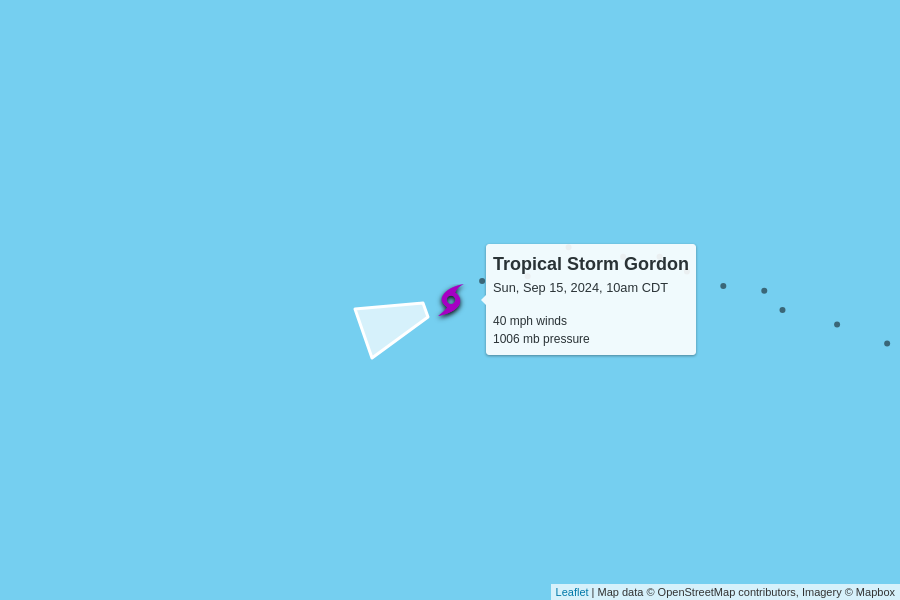
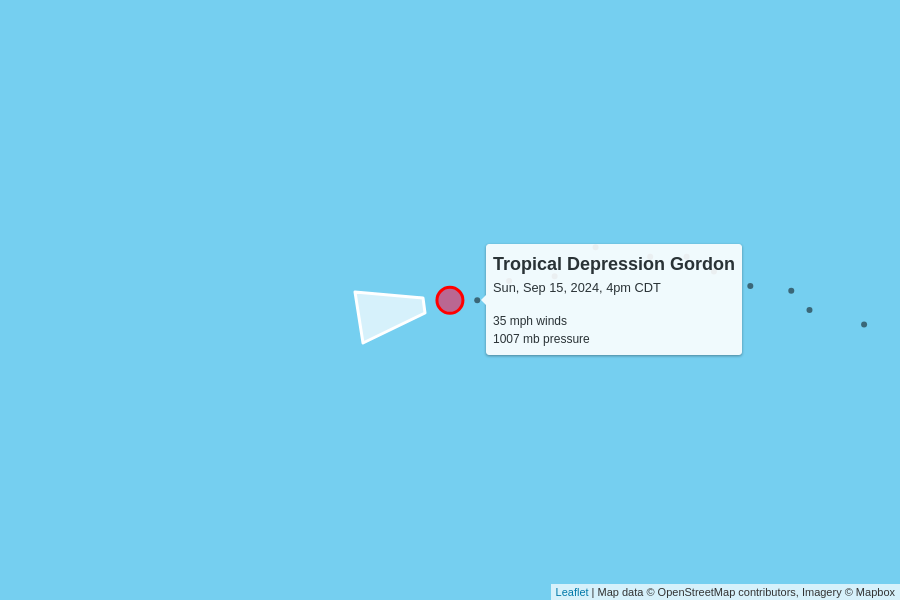
automatic update

Changed region(s): [[0.6222, 0.39, 0.84, 0.6], [0.3733, 0.48, 0.56, 0.6]]

diff --git a/docs/index.html b/docs/index.html
@@ -96,13 +96,15 @@
     </p>
 
     
+    <h2>2 active storms</h2>
+    <img src="active.png">
 
     <table>
       <tr>
         <td colspan="6" class="storm category-0" >
           <h2>
-            Tropical Storm Gordon
-            <p class="updated">last updated <span data-time>2024-09-15T15:00:00.000Z</span></p>
+            Tropical Depression Gordon
+            <p class="updated">last updated <span data-time>2024-09-15T21:00:00.000Z</span></p>
           </h2>
         </td>
       </tr>
@@ -117,12 +119,12 @@
       </tr>
       <tr>
         <td class="spacer"></td>
-        <td>40 mph<br>0 mph since last update</td>
-        <td>1006 mb<br>0 mb since last update</td>
+        <td>35 mph<br>-5 mph since last update</td>
+        <td>1007 mb<br>+1 mb since last update</td>
         <td>
-          9 mph to the west-southwest
+          8 mph to the west
           <br/>
-          <span style="display: inline-block; font-size: 1.5em; transform: rotate(250deg);">↑</span>
+          <span style="display: inline-block; font-size: 1.5em; transform: rotate(260deg);">↑</span>
         </td>
         <td><a href="https://raw.githubusercontent.com/mgwalker/atlantic-hurricanes/main/data/csv/AL072024.csv">AL072024.csv</a></td>
         <td><a href="https://www.nhc.noaa.gov/archive/2024/GORDON.shtml?">NHC advisories</a></td>
@@ -132,6 +134,50 @@
         <td colspan="5">
           <figure>
             <img src="AL072024.png">
+            <figcaption>
+              Map data &copy; <a href="https://www.openstreetmap.org/copyright">OpenStreetMap</a> contributors,
+              Imagery &copy; <a href="https://www.mapbox.com/">Mapbox</a> |
+              <a href="https://www.mapbox.com/map-feedback/" target="_blank">Improve this map</a>
+            </figcaption>
+          </figure>
+        </td>
+      </tr>
+      
+
+      <tr>
+        <td colspan="6" class="storm category-0" >
+          <h2>
+            Potential Tropical Cyclone Eight
+            <p class="updated">last updated <span data-time>2024-09-15T21:00:00.000Z</span></p>
+          </h2>
+        </td>
+      </tr>
+      
+      <tr>
+        <th class="spacer"></th>
+        <th>wind speed</th>
+        <th>central pressure</th>
+        <th>movement</th>
+        <th>data (CSV)</th>
+        <th>National Hurricane Center</th>
+      </tr>
+      <tr>
+        <td class="spacer"></td>
+        <td>45 mph</td>
+        <td>1006 mb</td>
+        <td>
+          7 mph to the northwest
+          <br/>
+          <span style="display: inline-block; font-size: 1.5em; transform: rotate(320deg);">↑</span>
+        </td>
+        <td><a href="https://raw.githubusercontent.com/mgwalker/atlantic-hurricanes/main/data/csv/AL082024.csv">AL082024.csv</a></td>
+        <td><a href="https://www.nhc.noaa.gov/archive/2024/EIGHT.shtml?">NHC advisories</a></td>
+      </tr>
+      <tr id="storm_AL082024" >
+        <td class="spacer">
+        <td colspan="5">
+          <figure>
+            <img src="AL082024.png">
             <figcaption>
               Map data &copy; <a href="https://www.openstreetmap.org/copyright">OpenStreetMap</a> contributors,
               Imagery &copy; <a href="https://www.mapbox.com/">Mapbox</a> |
